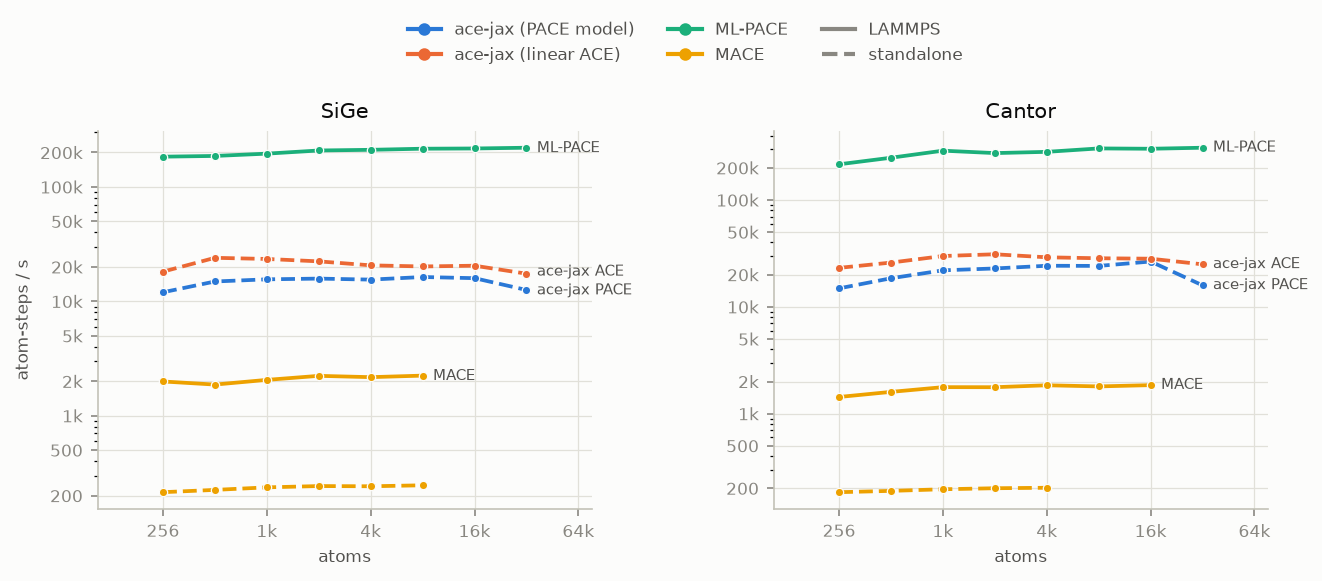
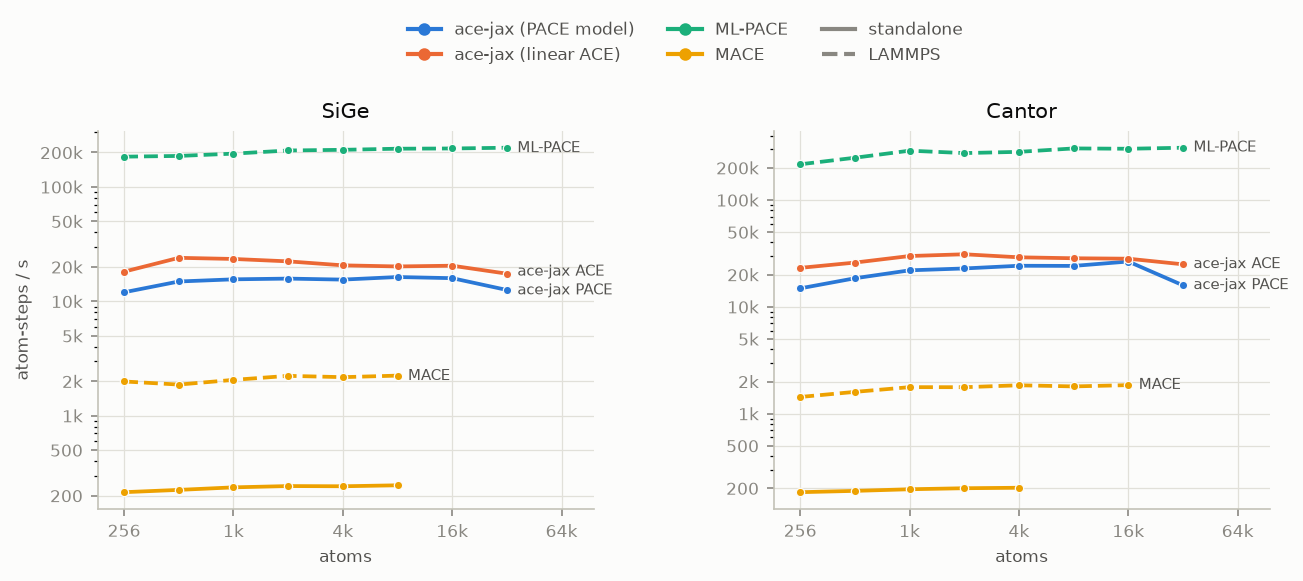
docs(user): Performance page uses solid = standalone, dashed = LAMMPS; may name Julia
Line styles now match docs/benchmarks.md. The page benchmarks ACEpotentials.jl
itself, so it is exempt from the no-backend-names check (the only user page
besides the licence); its notes say the direct line is a Julia call once that
line has data. The x range starts at the smallest case.

diff --git a/bench/scaling/user_page.py b/bench/scaling/user_page.py
@@ -13,8 +13,8 @@ Which hosts feed the page is USER_HOSTS, the one place to change.  Every code
 with rows on those hosts is drawn, except the learned-radial proxy lines
 (plot.LEARNED).  Colour and order follow plot.CODES (so the page matches
 docs/benchmarks.md); a code not in plot.CODES is drawn after them in a neutral
-ink.  Line style is the mode, on this page: solid = LAMMPS, dashed =
-standalone.  Repeated cases use plot.aggregate's median.
+ink.  Line style is the mode, as in docs/benchmarks.md: solid = standalone,
+dashed = LAMMPS.  Repeated cases use plot.aggregate's median.
 """
 import argparse
 import pathlib
@@ -62,7 +62,7 @@ SYSTEMS = ("SiGe", "Cantor")
 SIZE = "medium"
 TABLE_N = 8192
 EXCLUDED = tuple(plot.LEARNED)
-MODE_STYLE = {"lammps": "-", "standalone": "--"}      # this page: solid = LAMMPS
+MODE_STYLE = {"standalone": "-", "lammps": "--"}      # as docs/benchmarks.md: solid = standalone
 MODE_LABEL = {"lammps": "LAMMPS", "standalone": "standalone"}
 UNKNOWN_COLOUR = plot.INK2                            # never a generated hue
 
@@ -159,6 +159,8 @@ def figure(rows, s, out, hosts=None):
             if ends:                                   # one direct label per code
                 plot._end_label(ax, *max(ends), short(code))
         _xatoms(ax)
+        xs_all = [n for pts in lines.values() for n, _ in pts]
+        ax.set_xlim(min(xs_all) / 1.4, max(xs_all) * 3.0)   # tight left; room for end labels
         plot._ylog(ax)
     axes[0][0].set_ylabel("atom-steps / s", fontsize=8, color=plot.INK2)
     # two legend rows, filled column by column: the codes, then a column for the modes
@@ -218,6 +220,9 @@ def notes(rows, hosts=None):
     codes = {r["code"] for r in present}
     out = [f"- **CPU:** `{hosts['cpu']}`, {_hardware(rows, hosts['cpu'])}.",
            f"- **GPU:** `{hosts['gpu']}`, {_hardware(rows, hosts['gpu'])}."]
+    if "acepotentials" in codes:
+        out.append("- ACEpotentials.jl standalone is one `energy_forces` call in Julia "
+                   "(neighbour list included), timed after a warm-up call.")
     trim = sorted(c for c in codes if c.endswith("-trim"))
     if trim:
         out.append(f"- {', '.join(label(c) for c in trim)} evaluates the exact radial basis; "

diff --git a/tests/test_bench_user_page.py b/tests/test_bench_user_page.py
@@ -109,7 +109,7 @@ def _figure(up, rows, name, tmp_path, monkeypatch):
     return path, figs[-1]
 
 
-def test_figure_is_one_row_sige_then_cantor_lammps_solid_standalone_dashed(up, tmp_path, monkeypatch):
+def test_figure_is_one_row_sige_then_cantor_standalone_solid_lammps_dashed(up, tmp_path, monkeypatch):
     path, fig = _figure(up, _matrix(), "gpu_float64", tmp_path, monkeypatch)
     assert path == tmp_path / "gpu_float64.png" and path.exists()
     axes = [ax for ax in fig.axes if ax.lines]
@@ -122,8 +122,10 @@ def test_figure_is_one_row_sige_then_cantor_lammps_solid_standalone_dashed(up, t
                 assert ax.get_xscale() == "log" and ax.get_yscale() == "log"
         pace = up.colour("acejax-pace")
         assert styles[pace] == {"-", "--"}                         # both modes
-        assert styles[up.colour("mlpace")] == {"-"}                # LAMMPS only: solid
-        assert styles[up.colour("mace")] == {"--"}                 # standalone only: dashed
+        assert styles[up.colour("mlpace")] == {"--"}               # LAMMPS only: dashed
+        assert styles[up.colour("mace")] == {"-"}                  # standalone only: solid
+        lo = min(min(ln.get_xdata()) for ln in ax.lines if len(ln.get_xdata()) > 1)
+        assert lo / 2 <= ax.get_xlim()[0] < lo                     # no empty strip left of the data
     assert len(fig.legends) == 1                                   # one legend per figure
     texts = {t.get_text() for t in fig.legends[0].get_texts()}
     assert {"LAMMPS", "standalone"} <= texts
@@ -173,6 +175,9 @@ def test_notes_name_the_hosts_and_flag_the_trim_line_only_when_present(up):
     assert "trim" not in notes
     rows += [_row("acepotentials-trim", "lammps", n) for n in (4096, 8192)]
     assert "exact radial" in up.notes(rows)
+    assert "Julia" not in up.notes(rows)                   # no direct Julia line yet
+    rows += [_row("acepotentials", "standalone", n) for n in (4096, 8192)]
+    assert "in Julia" in up.notes(rows)
 
 
 def test_main_writes_the_figures_and_snippets(up, tmp_path):

diff --git a/tests/test_no_backend_names.py b/tests/test_no_backend_names.py
@@ -8,7 +8,11 @@ import subprocess
 ROOT = pathlib.Path(__file__).resolve().parents[1]
 USER_DOCS = ["README.md", "skills/ace-jax/SKILL.md", "docs/basis.md"]
 # the user documentation site (docs/user); the licence page credits the bundled runtime by name
-USER_DOCS += sorted(str(f.relative_to(ROOT)) for f in (ROOT / "docs/user").rglob("*.md") if f.name != "licence.md")
+# The Performance page is the one exception: it benchmarks ACEpotentials.jl itself (evaluated
+# in Julia, and as a compiled library in LAMMPS), so it has to name Julia.
+BACKEND_NAMED = {"docs/user/licence.md", "docs/user/benchmarks.md"}
+USER_DOCS += sorted(str(f.relative_to(ROOT)) for f in (ROOT / "docs/user").rglob("*.md")
+                    if str(f.relative_to(ROOT)) not in BACKEND_NAMED)
 JULIA = re.compile(r"julia", re.I)
 FILE_REF = re.compile(r"julia/|\.jl\b|\.jl`|\.github/workflows/\S+")   # maintainer file paths, not prose
 
@@ -32,3 +36,10 @@ def test_source_messages_have_no_backend_names():
                        capture_output=True, text=True)
     offenders = [l for l in r.stdout.splitlines() if re.search(r"raise |print\(|log\(|help=|warn", l)]
     assert not offenders, offenders
+
+
+def test_backend_name_exemptions_are_only_licence_and_benchmarks():
+    """Every other user page is still checked; the exemptions are named pages that exist."""
+    assert BACKEND_NAMED == {"docs/user/licence.md", "docs/user/benchmarks.md"}
+    assert all((ROOT / f).exists() for f in BACKEND_NAMED)
+    assert "docs/user/quickstart.md" in USER_DOCS and "docs/user/benchmarks.md" not in USER_DOCS

diff --git a/docs/snippets/benchmarks-table.md b/docs/snippets/benchmarks-table.md
@@ -1,9 +1,9 @@
 | evaluator | mode | CPU, float64: SiGe | CPU, float64: Cantor | GPU, float64: SiGe | GPU, float64: Cantor | GPU, float32: SiGe | GPU, float32: Cantor |
 |---|---|--:|--:|--:|--:|--:|--:|
-| ace-jax (PACE model) | LAMMPS | — | — | 1.14M | 1.40M | 1.81M | 2.06M |
 | ace-jax (PACE model) | standalone | 16k | 24k | 714k | 1.26M | 1.01M | 1.46M |
-| ace-jax (linear ACE) | LAMMPS | — | — | 2.27M | 847k | 3.23M | 2.10M |
+| ace-jax (PACE model) | LAMMPS | — | — | 1.14M | 1.40M | 1.81M | 2.06M |
 | ace-jax (linear ACE) | standalone | 20k | 28k | 1.48M | 1.56M | 2.12M | 1.85M |
+| ace-jax (linear ACE) | LAMMPS | — | — | 2.27M | 847k | 3.23M | 2.10M |
 | ML-PACE | LAMMPS | 216k | 304k | 1.67M | 2.22M | — | — |
-| MACE | LAMMPS | 2k | 2k | 64k | 55k | — | — |
 | MACE | standalone | 247 | — | 31k | 22k | 33k | 23k |
+| MACE | LAMMPS | 2k | 2k | 64k | 55k | — | — |

diff --git a/docs/user/benchmarks.md b/docs/user/benchmarks.md
@@ -9,9 +9,9 @@ compilation is not timed. The models are **medium-size models with random
 weights**, so they cost what a fitted model costs but predict nothing: PACE
 `.yace` models of about 500 basis functions per element (ace-jax and ML-PACE
 evaluate the same files), linear ACE models of about 450 per element, and
-MACE-MP-0b2 medium. **Standalone** (dashed lines) is a direct call of the
+MACE-MP-0b2 medium. **Standalone** (solid lines) is a direct call of the
 evaluator, outside any MD engine (for ace-jax and MACE, one ASE calculator
-call from Python, neighbour list included). **LAMMPS** (solid lines) is the
+call from Python, neighbour list included). **LAMMPS** (dashed lines) is the
 MD step time inside LAMMPS: ace-jax through lammps-jax ([LAMMPS
 export](howto/lammps.md)), ML-PACE as `pair_style pace`, MACE through
 Symmetrix. The systems are SiGe, a random alloy on diamond, and Cantor, the
